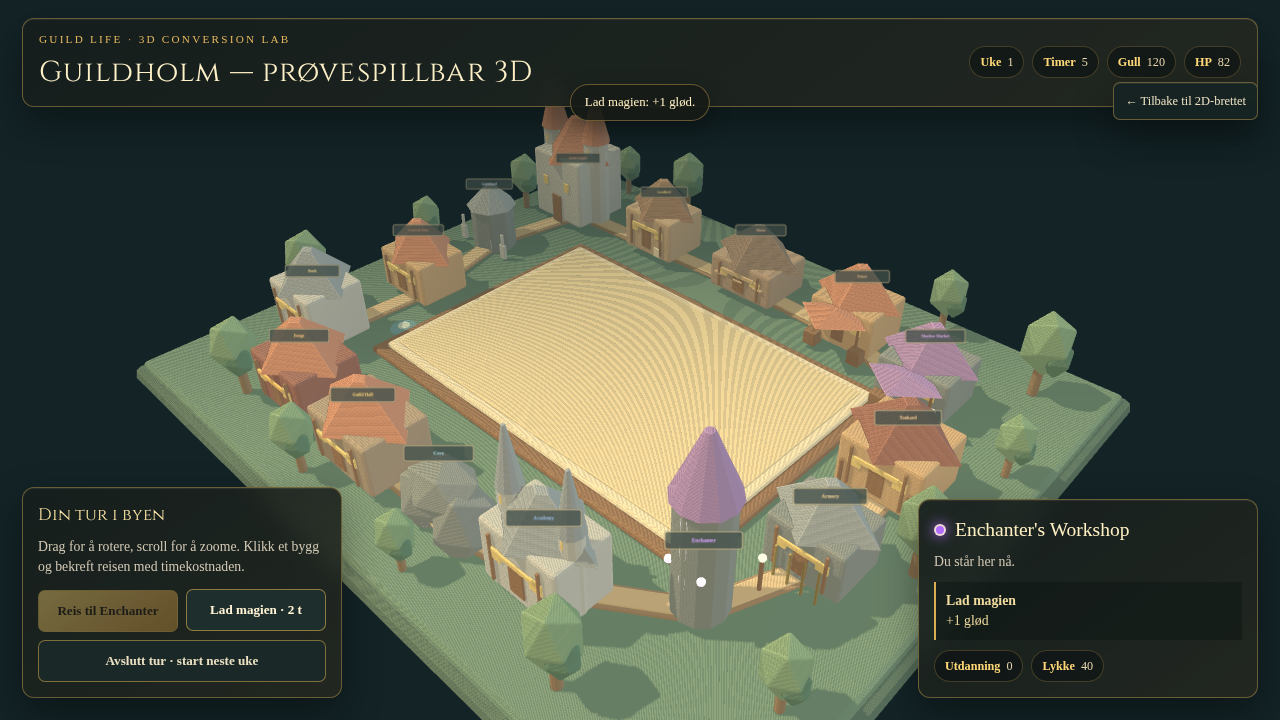
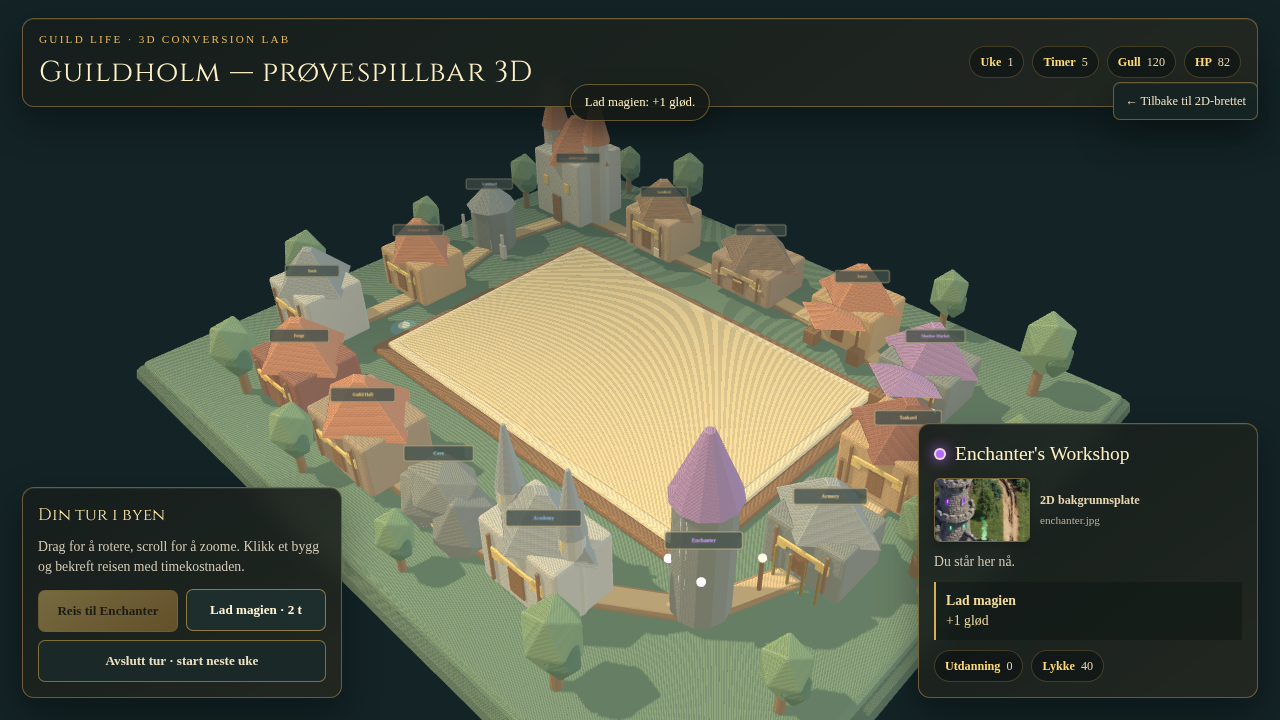
feat: show each location background in inspector

Changed region(s): [[0.6875, 0.5806, 0.9062, 0.7639]]

diff --git a/src/pages/Board3D.tsx b/src/pages/Board3D.tsx
@@ -385,6 +385,10 @@ export function Board3D({ modelUrl = MODEL_URL }: Board3DProps) {
                 <span className="board3d-location-dot" style={{ color: selected.accent, background: selected.accent }} />
                 {selected.name}
               </div>
+              <div className="board3d-reference">
+                <img src={selected.backgroundUrl} alt={`${selected.name} bakgrunn`} />
+                <span><strong>2D bakgrunnsplate</strong><small>{selected.id}.jpg</small></span>
+              </div>
               <p>{selected.id === currentLocation ? 'Du står her nå.' : `Rute fra ${current.name}: ${travelCost} timer.`}</p>
               <p className="board3d-action-copy"><strong>{selected.action}</strong><br />{selected.actionResult}</p>
               <div className="board3d-status" style={{ justifyContent: 'flex-start', marginTop: 10 }}>

diff --git a/src/pages/board3d.css b/src/pages/board3d.css
@@ -168,6 +168,28 @@
   box-shadow: 0 0 13px currentColor;
 }
 
+.board3d-reference {
+  display: flex;
+  align-items: center;
+  gap: 10px;
+  margin: 10px 0;
+  color: #e8d6af;
+  font-size: 0.76rem;
+}
+
+.board3d-reference img {
+  display: block;
+  width: 96px;
+  height: 64px;
+  border: 1px solid rgba(217, 175, 85, 0.45);
+  border-radius: 6px;
+  object-fit: cover;
+  box-shadow: 0 5px 12px rgba(0, 0, 0, 0.25);
+}
+
+.board3d-reference span { display: grid; gap: 3px; }
+.board3d-reference small { color: #b9ad94; font-size: 0.7rem; }
+
 .board3d-action-copy {
   margin-top: 10px !important;
   padding: 9px 10px;
